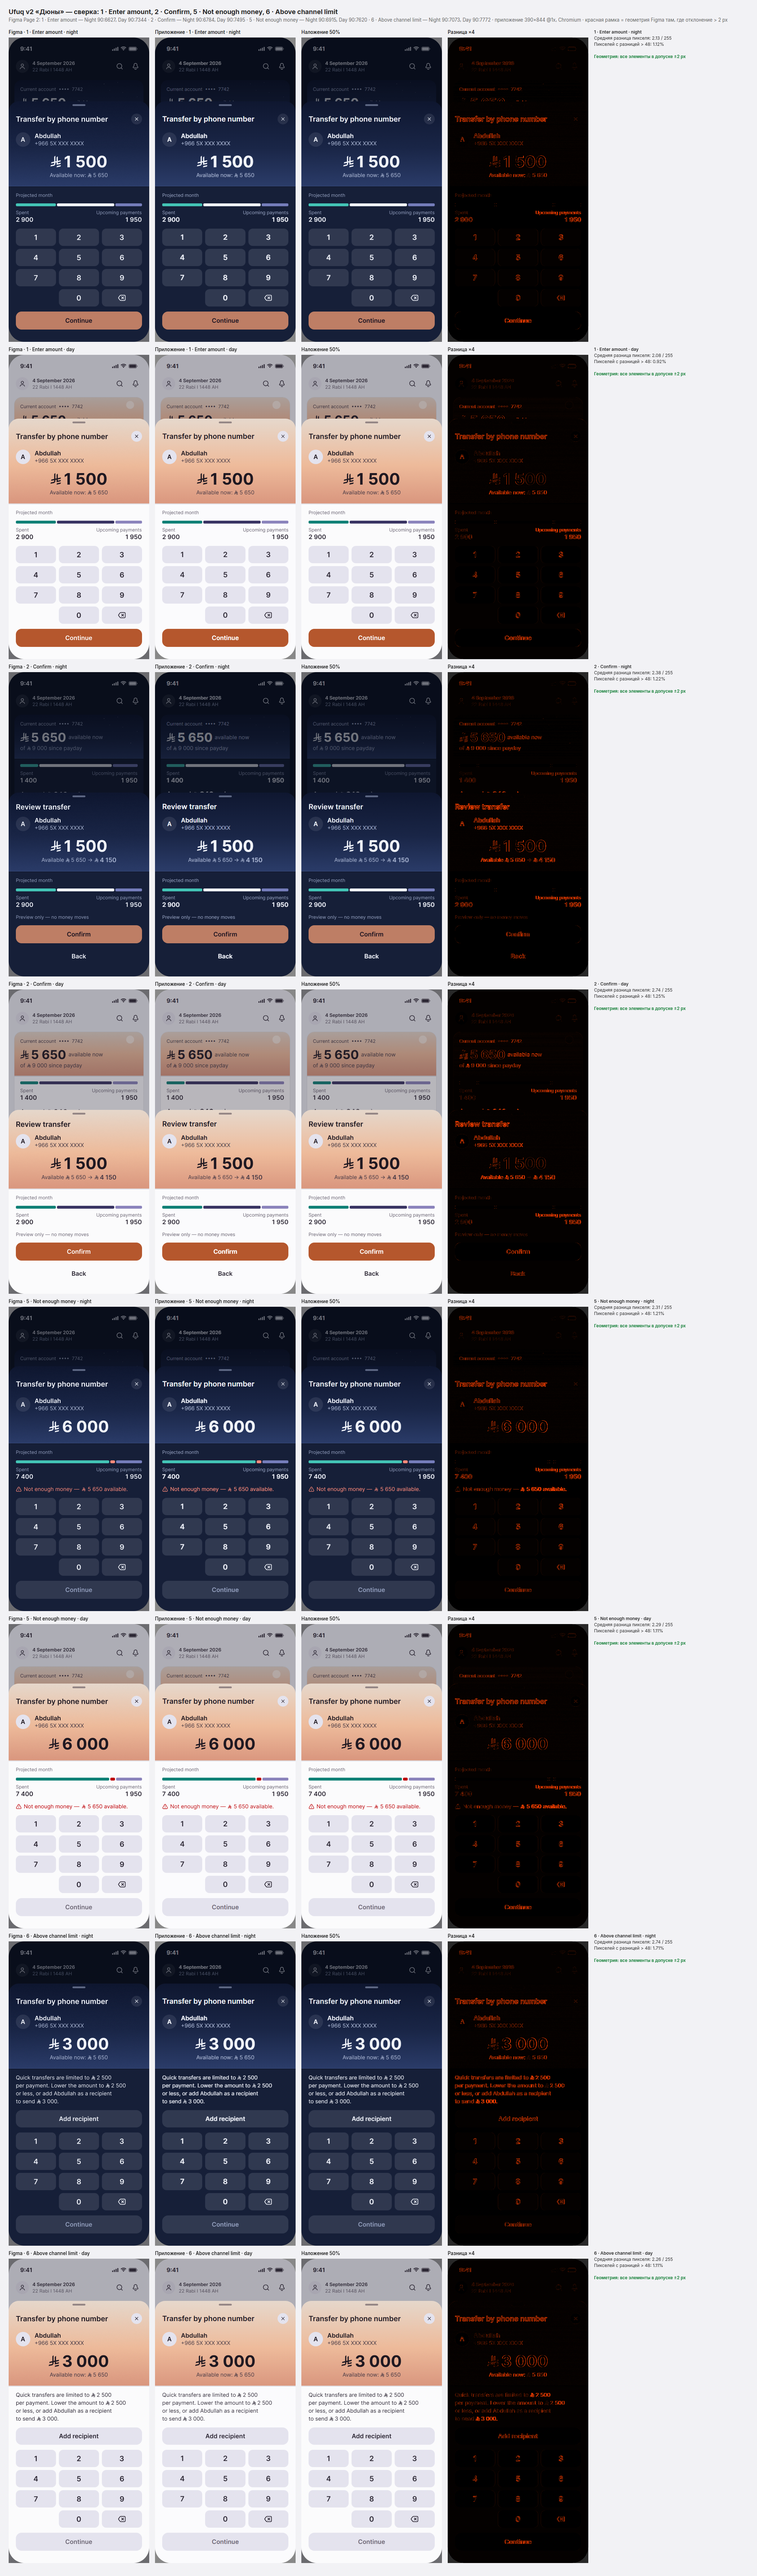
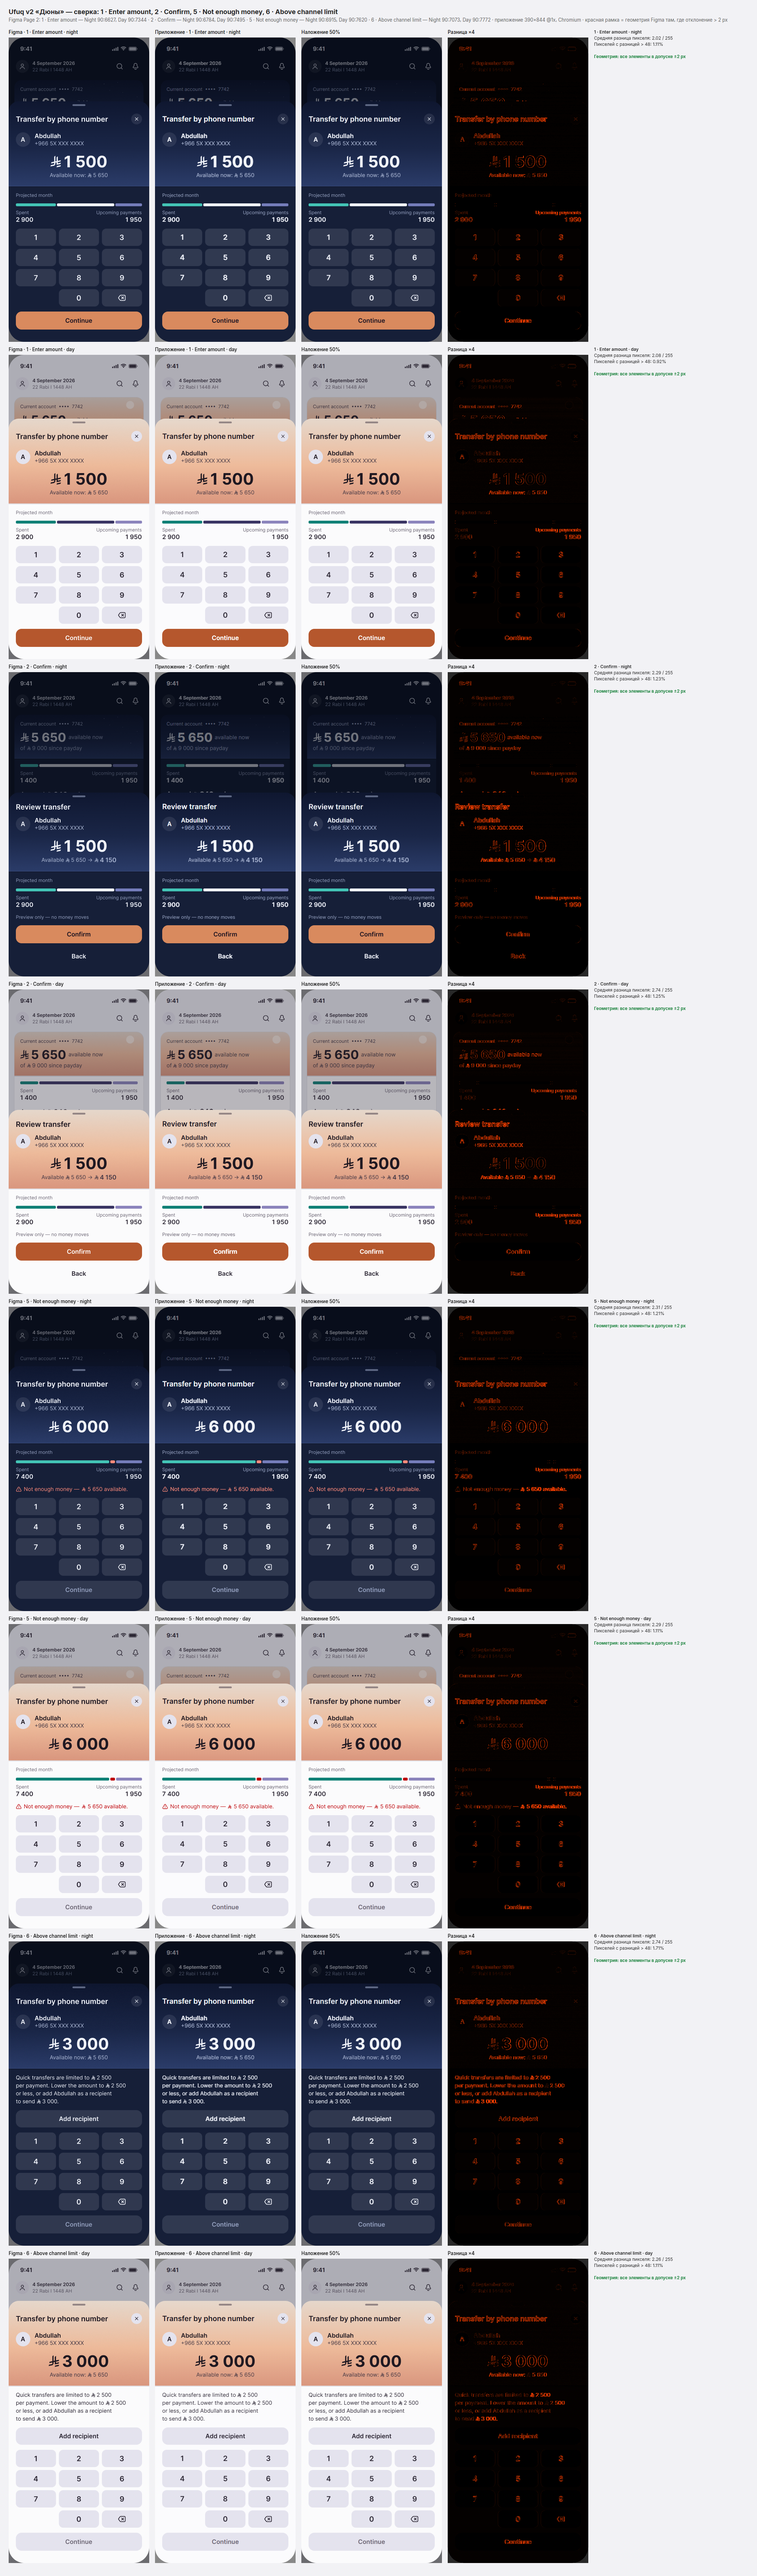
a3: 3 и 4 AR, все переходы в AR, лист сверки 14 AR-состояний, стражи на AR, EN заморожен
- 3 и 4 AR: тексты дословно из 119:4917 / 119:4963 / 122:3992 / 122:4028; «←» — Inter; сцены — те же файлы, что в EN (побайтно совпадают с «Scene · vector» AR).
- Все состояния доступны в AR; переключение языка сохраняет тему и состояние, ширины слов на 4 пересчитываются после загрузки шрифта.
- Стражи на AR: impact-geometry (ref/ar/impact.rects.json), impact-colors, contrast, tap-targets (все 7), flow (EN и AR, 80/80).
- Новые стражи: text-fit — ни один текст не выходит за контейнер (EN и AR, 1750 текстов; порча arover); en-frozen — 14 EN-состояний попиксельно против ref/en-frozen/ (снято до AR-работы; порча token краснеет).
- Листы сверки: AR — compare-board-ar-home-1-2-3-4-5-6.png (+ home, 1-2-5-6, 3-4), геометрия 0 > 2 px во всех 14; EN-листы пересобраны после a0.

diff --git a/index.html b/index.html
@@ -255,7 +255,7 @@
       <img class="scene" src="assets/scene/scene-4-day.svg" alt="" width="390" height="844" data-k="scene" data-scene="day" data-show="4">
 
       <div class="calc" data-show="3">
-        <h2 class="t-title3-s" data-k="calc-title">Calculating impact…</h2>
+        <h2 class="t-title3-s" data-k="calc-title" data-t="calc-title">Calculating impact…</h2>
         <div class="glass" data-k="calc-card">
           <div class="bar-block">
             <div class="pm-bar">
@@ -264,21 +264,21 @@
               <i class="s-upcoming" data-k="calc-upc"></i>
             </div>
             <div class="pm-labels">
-              <div class="l-spent"><span class="t-footnote muted" data-k="calc-lbl-spent">Spent</span><span class="t-headline" data-k="calc-val-spent">2 900</span></div>
-              <div class="l-upcoming"><span class="t-footnote muted">Upcoming payments</span><span class="t-headline" data-k="calc-val-upc">1 950</span></div>
+              <div class="l-spent"><span class="t-footnote muted" data-k="calc-lbl-spent" data-t="lbl-spent">Spent</span><span class="t-headline" data-k="calc-val-spent">2 900</span></div>
+              <div class="l-upcoming"><span class="t-footnote muted" data-t="lbl-upcoming">Upcoming payments</span><span class="t-headline" data-k="calc-val-upc">1 950</span></div>
             </div>
           </div>
         </div>
       </div>
 
       <div class="imp-sky" data-show="4">
-        <h2 class="t-title3-s" data-k="imp-title">Projected impact</h2>
+        <h2 class="t-title3-s" data-k="imp-title" data-t="imp-title">Projected impact</h2>
         <div class="imp-amount">
           <div class="amt-row">
             <svg width="29.54" height="32" data-k="imp-riyal" aria-hidden="true"><use href="#i-riyal"/></svg>
             <span class="t-amount44" data-k="imp-amt">4 150</span>
           </div>
-          <span class="t-sub" data-k="imp-sub">Available after transfer</span>
+          <span class="t-sub" data-k="imp-sub" data-t="imp-sub">Available after transfer</span>
         </div>
       </div>
       <div class="glass imp-card" data-k="imp-card" data-show="4">
@@ -289,29 +289,29 @@
             <i class="s-upcoming" data-k="imp-upc"></i>
           </div>
           <div class="pm-labels">
-            <div class="l-spent"><span class="t-footnote muted">Spent</span><span class="t-headline" data-k="imp-val-spent">2 900</span></div>
-            <div class="l-upcoming"><span class="t-footnote muted" data-k="imp-lbl-upc">Upcoming payments</span><span class="t-headline" data-k="imp-val-upc">1 950</span></div>
+            <div class="l-spent"><span class="t-footnote muted" data-t="lbl-spent">Spent</span><span class="t-headline" data-k="imp-val-spent">2 900</span></div>
+            <div class="l-upcoming"><span class="t-footnote muted" data-k="imp-lbl-upc" data-t="lbl-upcoming">Upcoming payments</span><span class="t-headline" data-k="imp-val-upc">1 950</span></div>
           </div>
         </div>
         <div class="imp-text">
           <div class="imp-line" data-k="imp-line1">
-            <span class="t-body">If</span>
+            <span class="t-body" data-t="imp-if">If</span>
             <svg width="12" height="13" aria-hidden="true"><use href="#i-riyal"/></svg>
             <span class="t-body" data-k="imp-sum">1 500</span>
-            <span class="t-body">is transferred to Abdullah</span>
+            <span class="t-body" data-t="imp-to-name">is transferred to Abdullah</span>
           </div>
           <div class="imp-line" data-k="imp-line2">
             <svg width="12" height="13" aria-hidden="true"><use href="#i-riyal"/></svg>
             <span class="t-headline" data-k="imp-from">246</span>
-            <span class="t-body">→</span>
+            <span class="t-body latin" data-t="arrow">→</span>
             <svg width="12" height="13" aria-hidden="true"><use href="#i-riyal"/></svg>
             <span class="t-headline" data-k="imp-to">180</span>
-            <span class="t-body">a day until payday</span>
+            <span class="t-body" data-t="imp-perday">a day until payday</span>
           </div>
-          <span class="t-footnote muted" data-k="imp-note">No money was sent</span>
+          <span class="t-footnote muted" data-k="imp-note" data-t="imp-note">No money was sent</span>
         </div>
       </div>
-      <button class="btn-primary t-headline done" data-k="done" data-show="4">Done</button>
+      <button class="btn-primary t-headline done" data-k="done" data-t="done" data-show="4">Done</button>
     </section>
   </div>
 

diff --git a/app.js b/app.js
@@ -29,9 +29,6 @@ const SHEET_CLOSE = { duration: 160, easing: 'ease-in' };
 const CALC_MS = 1500;           // 3 → 4: After delay 1,5 s
 
 const BUILT = new Set(['home', '1', '2', '3', '4', '5', '6']);
-// AR собирается по шагам спеки ufuq-dunes-ar.md: a1 — Home, a2 — шторка, a3 — 3 и 4.
-const BUILT_AR = new Set(['home', '1', '2', '5', '6']);
-const built = s => (lang === 'ar' ? BUILT_AR : BUILT).has(s);
 
 // Тексты AR — дословно из фреймов Figma Page 2 «· AR» (Home: 119:4082 / 122:3172).
 // Ключ — data-t в index.html. EN-тексты остаются в разметке и возвращаются как были.
@@ -57,6 +54,10 @@ const AR = {
   lim1: 'التحويل السريع محدود بـ', lim2: 'لكل عملية. خفّض المبلغ إلى',
   lim3: 'أو أقل، أو أضف عبدالله إلى قائمة المستفيدين', lim4: 'لتحويل', 'lim-2500': '٢٬٥٠٠',
   add: 'إضافة مستفيد', cont: 'متابعة', confirm: 'تأكيد', back: 'رجوع',
+  // 3 и 4: 119:4917, 119:4963 / 122:3992, 122:4028
+  'calc-title': 'جارٍ حساب الأثر…', 'imp-title': 'الأثر المتوقع', 'imp-sub': 'المتاح بعد التحويل',
+  'imp-if': 'في حال تحويل', 'imp-to-name': 'إلى عبدالله', 'imp-perday': 'يوميًا حتى يوم الراتب',
+  'imp-note': 'لم يتم تحويل أي أموال', done: 'إغلاق',
   k1: '١', k2: '٢', k3: '٣', k4: '٤', k5: '٥', k6: '٦', k7: '٧', k8: '٨', k9: '٩', k0: '٠',
 };
 const TITLE = {
@@ -75,7 +76,7 @@ const params = new URLSearchParams(location.search);
 let themePick = ['light', 'dark', 'auto'].includes(params.get('theme')) ? params.get('theme') : 'auto';
 let lang = params.get('lang') === 'ar' ? 'ar' : 'en';
 let state = params.get('state');
-if (!built(state)) state = 'home';
+if (!BUILT.has(state)) state = 'home';
 let amount = FRAME_AMOUNT[state] ?? FRAME_AMOUNT[1];
 
 // EN: тысячи через пробел. AR: восточно-арабские цифры, тысячи через «٬» — как во фреймах.
@@ -120,7 +121,6 @@ function applyLang() {
   for (const b of document.querySelectorAll('[data-lang-pick]')) {
     b.setAttribute('aria-pressed', String(b.dataset.langPick === lang));
   }
-  for (const b of document.querySelectorAll('[data-state]')) b.disabled = !built(b.dataset.state);
 }
 
 function syncUrl() {
@@ -357,11 +357,11 @@ phone.addEventListener('click', e => {
     return;
   }
   const k = e.target.closest('[data-k]')?.dataset.k;
-  if (k === 'cta') { if (!built('1')) return; amount = FRAME_AMOUNT[1]; go('1', SHEET_IN(240)); } // AR: шторки ещё нет (a2)
+  if (k === 'cta') { amount = FRAME_AMOUNT[1]; go('1', SHEET_IN(240)); }
   else if (k === 'sh-close') go('home', SHEET_OUT(SHEET_CLOSE.duration));
   else if (k === 'cont' && state === '1' && amount > 0) go('2', SMART(240));
   else if (k === 'back') go('1', SMART(240));
-  else if (k === 'confirm' && built('3')) go('3', DISSOLVE(240)); // AR: экрана 3 ещё нет (a3)
+  else if (k === 'confirm') go('3', DISSOLVE(240));
   else if (k === 'done') go('home', DISSOLVE(240));
   // add recipient — экрана нет (вне объёма v2)
 });
@@ -374,8 +374,9 @@ document.getElementById('lang-seg').addEventListener('click', e => {
   settle();
   lang = b.dataset.langPick;
   applyLang();
-  // состояние сохраняется; если в этом языке его ещё нет — Home
-  if (built(state)) applyState(); else go('home');
+  applyState(); // тема и состояние сохраняются
+  // ширины слов на 4 (ceil) снимаются по Readex Pro / Inter, а не по запасному шрифту
+  document.fonts.ready.then(() => { if (state === '4') renderImpact(); });
 });
 
 document.getElementById('theme-seg').addEventListener('click', e => {

diff --git a/docs/tasks/ufuq-dunes-ar.md b/docs/tasks/ufuq-dunes-ar.md
@@ -56,4 +56,5 @@
 - **a2** — шторка AR 1, 2, 5, 6: клавиатура не зеркалится, ⌫ отражён, ввод — восточно-арабские цифры с «٬», логика суммы та же (checks/amount-logic.mjs — EN и AR, 42/42). Лист сверки compare-board-ar-1-2-5-6.png.
 - Сумма в 1 · Night · AR (119:4422) — была AR/44 Regular, исправлено в Figma на Bold после a2; строка CSS убрана, ref/ar/s1-night.png переснят.
 - «٣٬٠٠٠.» в 6 (119:5481 / 122:4525): в Figma в начало слоя добавлен U+200F (RLM) — точка слева от цифр. В коде тот же символ перед числом (app.js, только AR); ref/ar/s6-*.png пересняты.
-- До a3: в AR Confirm никуда не ведёт (экранов 3 и 4 нет), 3 и 4 в панели неактивны.
+- **a3** — 3 и 4 AR (сцены «Scene · vector» в AR те же файлы, что в EN — совпадают побайтно), все переходы в AR (flow — EN и AR, 80/80). Лист сверки 14 AR-состояний — compare-board-ar-home-1-2-3-4-5-6.png (геометрия 0 > 2 px), EN-листы пересобраны после a0.
+- Стражи на AR: геометрия, цвета, контраст, зоны ≥ 44, логика суммы, поток, ширины Readex; новые — text-fit (ни один текст не выходит за контейнер, EN и AR) и en-frozen (14 EN-состояний попиксельно против ref/en-frozen/, снятых до AR-работы).
